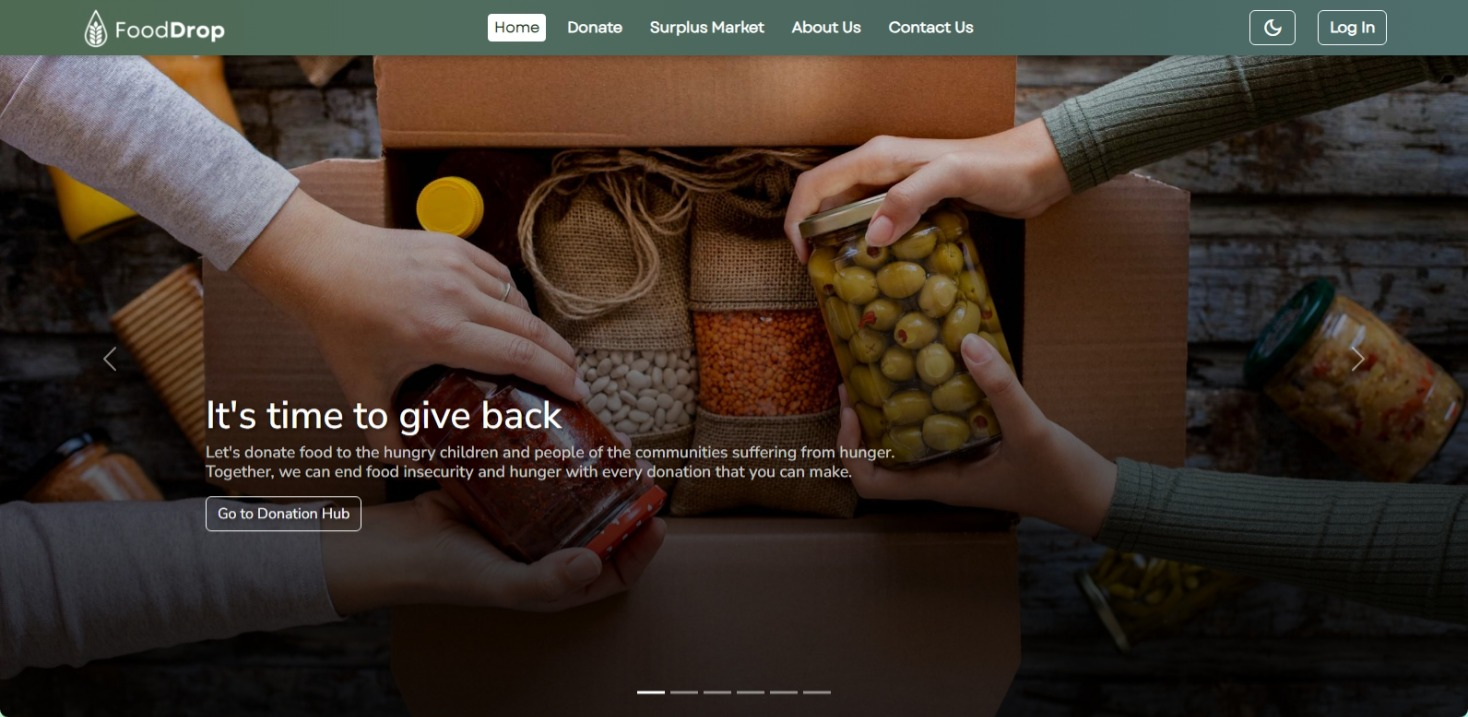
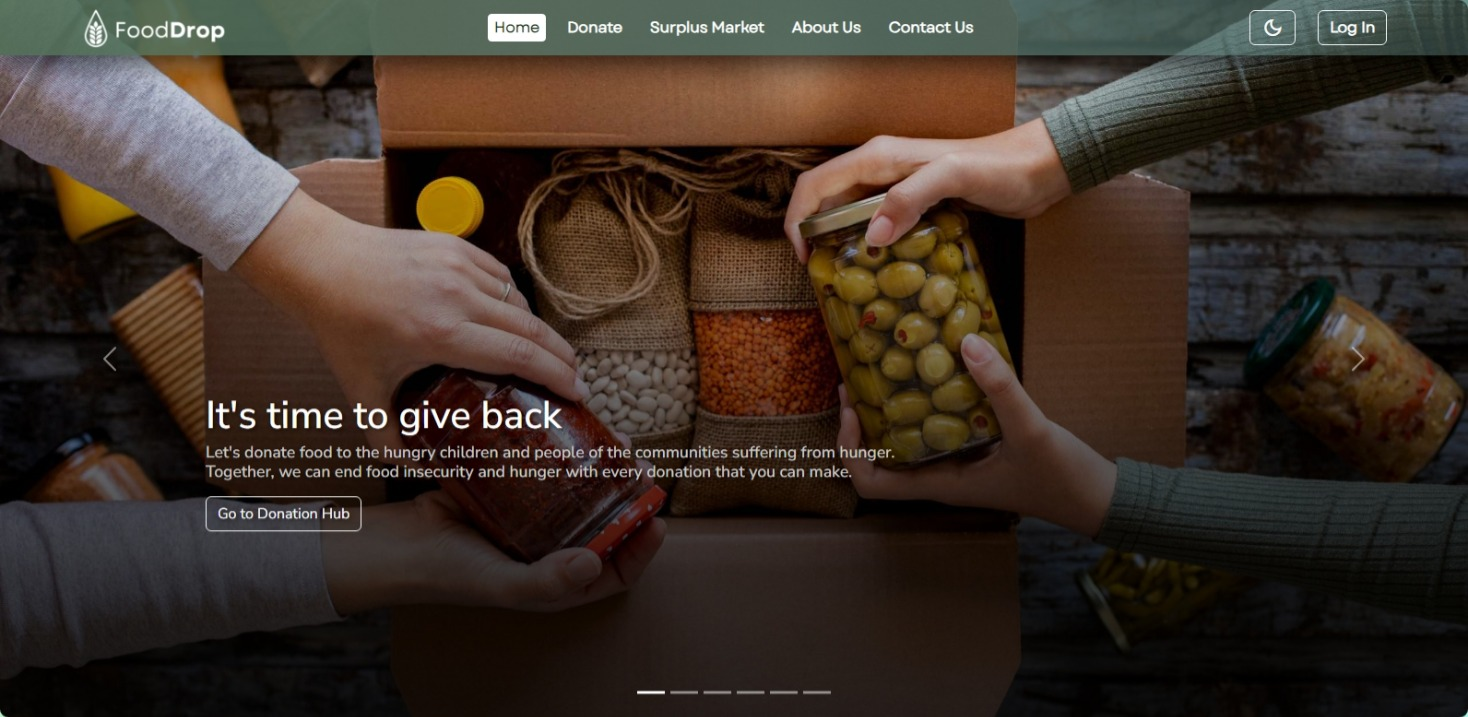
v1.01 - FoodDrop

Changed region(s): [[0.1839, 0.0614, 0.705, 0.1227], [0.7663, 0.0, 1.0, 0.1227], [0.0, 0.0614, 0.1533, 0.1227]]

diff --git a/dark-mode.js b/dark-mode.js
@@ -1,3 +1,18 @@
+function applyMode() {
+    var mode = localStorage.getItem("mode");
+    if (mode === "dark") {
+        darkMode();
+    } else {
+        lightMode();
+    }
+}
+
+applyMode();
+
+document.addEventListener("DOMContentLoaded", function() {
+    applyMode();
+});
+
 function toggleDarkMode() {
     var mode = localStorage.getItem("mode");
     if (mode === "dark") {
@@ -8,26 +23,18 @@ function toggleDarkMode() {
     applyMode();
 }
 
-function applyMode() {
-    var mode = localStorage.getItem("mode");
-    if (mode === "dark") {
-        darkMode();
-    } else {
-        lightMode();
-    }
-}
-
-document.addEventListener("DOMContentLoaded", function() {
-    applyMode();
-});
-
 function darkMode() {
     var body = document.body;
     body.style.backgroundColor = "rgb(32, 34, 32)";
 
     var navbarContainers = document.getElementsByClassName('navbar-container');
     for (var i = 0; i < navbarContainers.length; i++) {
-        navbarContainers[i].style.background = "linear-gradient(90deg, rgba(78,106,82,1) 0%, rgba(80,108,95,1) 33%, rgba(74,102,95,1) 66%, rgba(78,110,108,1) 100%)";
+        navbarContainers[i].classList.add('dark-mode');
+    }
+
+    var navbarContainerHome = document.getElementsByClassName('navbar-container-home');
+    for (var i = 0; i < navbarContainerHome.length; i++) {
+        navbarContainerHome[i].style.background = "linear-gradient(90deg, rgba(78,106,82,0.911) 0%, rgba(80,108,95,0.89) 33%, rgba(74,102,95,0.89) 66%, rgba(78,110,108,0.5) 100%)";
     }
 
     var donoCard = document.getElementsByClassName('donate-card');
@@ -99,14 +106,17 @@ function darkMode() {
 }
 
 function lightMode() {
-    console.log("it works huh???")
-
     var body = document.body;
     body.style.backgroundColor = "rgb(240, 255, 241)";
 
     var navbarContainers = document.getElementsByClassName('navbar-container');
     for (var i = 0; i < navbarContainers.length; i++) {
-        navbarContainers[i].style.background = "linear-gradient(135deg, rgba(99, 230, 88, 1) 0%, rgba(101, 244, 141, 1) 33%, rgba(76, 235, 192, 1) 66%, rgb(110, 230, 206) 100%)";
+        navbarContainers[i].classList.remove('dark-mode');
+    }
+
+    var navbarContainerHome = document.getElementsByClassName('navbar-container-home');
+    for (var i = 0; i < navbarContainerHome.length; i++) {
+        navbarContainerHome[i].style.background = "linear-gradient(135deg, rgba(100, 230, 88, 0.911) 0%, rgba(101, 244, 141, 0.89) 33%, rgba(76, 235, 192, 0.89) 66%, rgba(116, 255, 227, 0.5) 100%)";
     }
 
     var donoCard = document.getElementsByClassName('donate-card');

diff --git a/style.css b/style.css
@@ -325,10 +325,25 @@ body {
     background: rgb(99, 230, 88);
     background: linear-gradient(135deg, rgba(99, 230, 88, 1) 0%, rgba(101, 244, 141, 1) 33%, rgba(76, 235, 192, 1) 66%, rgb(110, 230, 206) 100%);
     box-shadow: rgba(0, 0, 0, 0.24) 0px 3px 8px;
-
 }
 
-.navbar-container.home-page {
+.navbar-container.dark-mode {
+    background: linear-gradient(90deg, rgba(78,106,82,1) 0%, rgba(80,108,95,1) 33%, rgba(74,102,95,1) 66%, rgba(78,110,108,1) 100%);
+}
+
+.navbar-container-home {
+    font-family: "Garet";
+    margin: 0 auto;
+    position: fixed;
+
+    z-index: 999;
+
+    display: flex;
+    justify-content: center;
+
+    height: 60px;
+    width: 100%;
+    background: rgb(99, 230, 88);
     background: linear-gradient(135deg, rgba(100, 230, 88, 0.911) 0%, rgba(101, 244, 141, 0.89) 33%, rgba(76, 235, 192, 0.89) 66%, rgba(116, 255, 227, 0.5) 100%);
     box-shadow: rgba(0, 0, 0, 0.45) 0px 20px 25px -5px, rgba(0, 0, 0, 0.14) 0px 10px 10px -5px;
 }

diff --git a/index.html b/index.html
@@ -60,7 +60,7 @@
 </head>
 
 <body>
-    <nav class="navbar-container" id="navbarSupportedContent">
+    <nav class="navbar-container-home" id="navbarSupportedContent">
         <div class="navbar-edges">
             <div class="navbar-section">
                 <img src="logos/TLW.png" width="159.57px" height="45px" style="margin: 0vh 1.5vw;">
